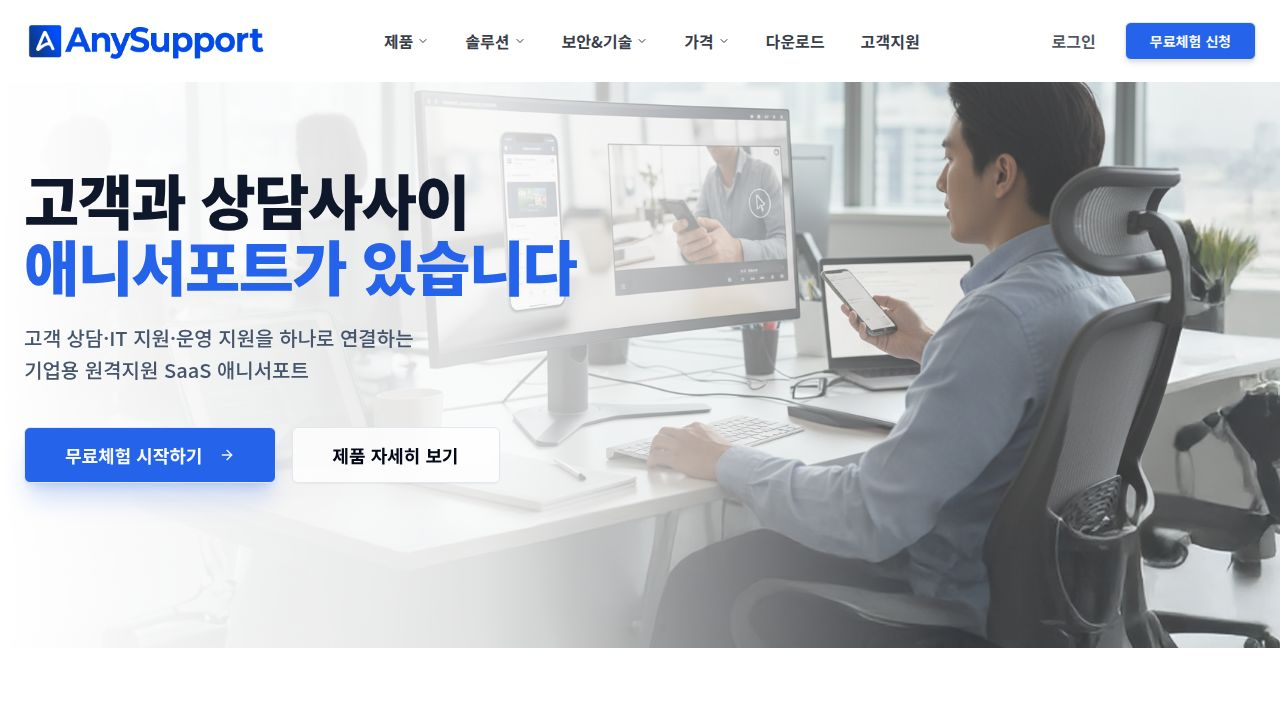
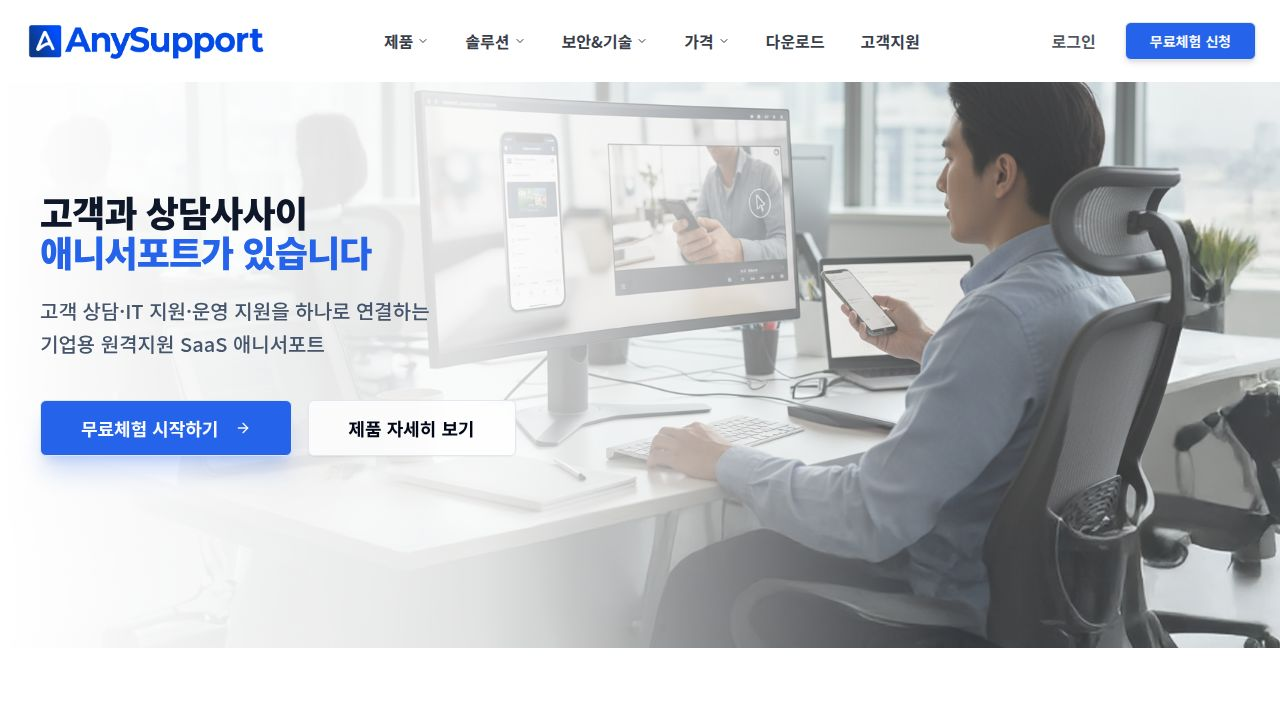
Update homepage layout and text scaling for improved visual presentation
Apply global container width, scale section and card titles, adjust description font sizes, and fix card image dimensions across the homepage component.

Replit-Commit-Author: Agent
Replit-Commit-Session-Id: 8ba586ec-b9aa-4377-bd8b-437d9b3afe8a
Replit-Commit-Checkpoint-Type: full_checkpoint
Replit-Commit-Event-Id: fedbec69-ab3a-449d-8ca8-83f56136e4be
Replit-Commit-Screenshot-Url: https://storage.googleapis.com/screenshot-production-us-central1/d1d43aaf-ab85-4a0b-a09b-85b7afb839c1/8ba586ec-b9aa-4377-bd8b-437d9b3afe8a/BrcoR73
Replit-Helium-Checkpoint-Created: true

Changed region(s): [[0.0, 0.2444, 0.4688, 0.7028]]

diff --git a/client/src/pages/home.tsx b/client/src/pages/home.tsx
@@ -264,9 +264,9 @@ export function Home() {
           <div className="absolute inset-0 bg-gradient-to-r from-white via-white/80 to-transparent lg:w-3/4" />
         </div>
 
-        <div className="container mx-auto px-4 md:px-6 relative z-10">
+        <div className="max-w-[1280px] w-full mx-auto px-4 sm:px-6 lg:px-10 relative z-10">
           <div className="max-w-3xl">
-            <h1 className="text-3xl sm:text-4xl md:text-6xl font-black text-slate-900 leading-[1.1] mb-6">
+            <h1 className="text-3xl lg:text-4xl md:text-6xl font-black text-slate-900 leading-[1.1] mb-6">
               고객과 상담사사이
               <br />
               <span className="text-primary">애니서포트가 있습니다</span>
@@ -298,12 +298,12 @@ export function Home() {
       </section>
       {/* 다양한 환경과 기기 지원 */}
       <section className="py-24 bg-white pt-[154px] pb-[154px]">
-        <div className="container mx-auto px-4 md:px-6">
+        <div className="max-w-[1280px] w-full mx-auto px-4 sm:px-6 lg:px-10">
           <div className="text-center mb-16">
-            <h2 className="text-[25px] md:text-4xl font-bold mb-4">
+            <h2 className="text-3xl lg:text-4xl font-bold mb-4">
               환경과 기기에 제한 없는 원격지원
             </h2>
-            <p className="text-slate-500 max-w-2xl mx-auto text-[14px] md:text-lg">
+            <p className="text-slate-500 max-w-2xl mx-auto sm:text-base">
               어떤 환경에서도 고객과 연결될 수 있습니다.
             </p>
           </div>
@@ -334,7 +334,7 @@ export function Home() {
                 data-testid={`link-solution-${item.title}`}
               >
                 <div className="overflow-hidden rounded-2xl border border-slate-100 bg-white shadow-sm flex flex-col group hover:shadow-md transition-shadow cursor-pointer h-full">
-                  <div className="aspect-[4/3] overflow-hidden relative">
+                  <div className="h-56 sm:h-64 overflow-hidden relative">
                     <img
                       src={item.image}
                       alt={item.title}
@@ -343,10 +343,10 @@ export function Home() {
                     <div className="absolute inset-0 bg-gradient-to-t from-slate-900/40 to-transparent opacity-60" />
                   </div>
                   <div className="p-6 sm:p-8 text-center border-t border-slate-50 flex-1">
-                    <h3 className="text-lg sm:text-xl font-bold mb-1 sm:mb-2 group-hover:text-primary transition-colors">
+                    <h3 className="text-lg lg:text-2xl font-bold mb-1 sm:mb-2 group-hover:text-primary transition-colors">
                       {item.title}
                     </h3>
-                    <p className="text-slate-500 text-xs sm:text-sm font-medium">
+                    <p className="text-slate-500 sm:text-base font-medium">
                       {item.desc}
                     </p>
                   </div>
@@ -368,12 +368,12 @@ export function Home() {
       </section>
       {/* 5. 애니서포트 핵심 기능 */}
       <section id="features" className="py-24 bg-[#f8fafc]">
-        <div className="container mx-auto px-4 md:px-6">
+        <div className="max-w-[1280px] w-full mx-auto px-4 sm:px-6 lg:px-10">
           <div className="text-center mb-16">
-            <h2 className="text-[25px] md:text-4xl font-bold mb-4">
+            <h2 className="text-3xl lg:text-4xl font-bold mb-4">
               효율적인 지원을 위한 핵심적인 기능
             </h2>
-            <p className="text-slate-500 max-w-2xl mx-auto text-[14px] md:text-lg"></p>
+            <p className="text-slate-500 max-w-2xl mx-auto sm:text-base"></p>
           </div>
           <div className="grid grid-cols-2 sm:grid-cols-3 md:grid-cols-4 lg:grid-cols-5 gap-6 mb-12 max-w-6xl mx-auto">
             {[
@@ -458,12 +458,12 @@ export function Home() {
       </section>
       {/* 5.1 Device Support Toggle Section */}
       <section className="py-24 bg-white border-y border-slate-50">
-        <div className="container mx-auto px-4 md:px-6">
+        <div className="max-w-[1280px] w-full mx-auto px-4 sm:px-6 lg:px-10">
           <div className="text-center mb-16">
-            <h2 className="md:text-5xl text-slate-900 mb-4 font-bold text-[36px]">
+            <h2 className="text-3xl lg:text-4xl text-slate-900 mb-4 font-bold">
               환경은 달라도, 지원은 하나로 완성됩니다
             </h2>
-            <p className="text-slate-500 max-w-2xl mx-auto text-lg font-medium">
+            <p className="text-slate-500 max-w-2xl mx-auto sm:text-base font-medium">
               PC·모바일·웹 환경을 아우르는 통합 원격 지원 기술
             </p>
           </div>
@@ -514,12 +514,12 @@ export function Home() {
       </section>
       {/* 6. 원격 연결 프로세스 (4단계) */}
       <section id="connection-process" className="py-24 bg-white">
-        <div className="container mx-auto px-4 md:px-6">
+        <div className="max-w-[1280px] w-full mx-auto px-4 sm:px-6 lg:px-10">
           <div className="text-center mb-16">
-            <h2 className="text-[25px] md:text-4xl font-bold mb-4">
+            <h2 className="text-3xl lg:text-4xl font-bold mb-4">
               간편한 4단계 연결로 시간과 비용을 단축하세요
             </h2>
-            <p className="text-slate-500 max-w-2xl mx-auto text-[14px] md:text-lg">
+            <p className="text-slate-500 max-w-2xl mx-auto sm:text-base">
               누구나 1분 안에 원격 지원을 시작할 수 있습니다.
             </p>
           </div>
@@ -576,12 +576,12 @@ export function Home() {
       </section>
       {/* 7. 기술력 & 보안 */}
       <section className="py-24 bg-slate-900 text-white pt-[70px] pb-[70px]">
-        <div className="container mx-auto px-4 md:px-6">
+        <div className="max-w-[1280px] w-full mx-auto px-4 sm:px-6 lg:px-10">
           <div className="max-w-4xl mx-auto text-center">
             <div className="inline-block p-3 rounded-full bg-primary/20 text-primary mb-6">
               <ShieldCheck size={40} />
             </div>
-            <h2 className="md:text-4xl font-bold mb-6 text-[25px]">
+            <h2 className="text-3xl lg:text-4xl font-bold mb-6">
               강력한 기술력과 타협 없는 보안
             </h2>
             <p className="text-slate-400 text-lg mb-10 leading-relaxed">
@@ -615,7 +615,7 @@ export function Home() {
       </section>
       {/* 8. 성과와 지표 (숫자로 증명) */}
       <section className="py-24 bg-[#0f172b] pt-[70px] pb-[70px]">
-        <div className="container mx-auto px-4 md:px-6">
+        <div className="max-w-[1280px] w-full mx-auto px-4 sm:px-6 lg:px-10">
           <div className="grid grid-cols-2 md:grid-cols-5 gap-4 md:gap-6 text-center">
             <div>
               <Counter value="6000" suffix="+" />
@@ -656,18 +656,18 @@ export function Home() {
       </section>
       {/* 10. 서비스 도입 방식 선택 */}
       <section className="py-24 bg-[#f8fafc]">
-        <div className="container mx-auto px-4 md:px-6">
+        <div className="max-w-[1280px] w-full mx-auto px-4 sm:px-6 lg:px-10">
           <div className="text-center mb-16">
-            <h2 className="text-[25px] md:text-4xl font-bold mb-4">
+            <h2 className="text-3xl lg:text-4xl font-bold mb-4">
               서비스 도입 방식 선택
             </h2>
-            <p className="text-slate-500 max-w-2xl mx-auto text-[14px] md:text-lg">
+            <p className="text-slate-500 max-w-2xl mx-auto sm:text-base">
               귀사의 규모와 환경에 맞는 플랜을 선택하세요.
             </p>
           </div>
           <div className="grid md:grid-cols-2 gap-8 max-w-5xl mx-auto">
             <div className="p-10 rounded-2xl border border-slate-200 hover:border-primary transition-all bg-white shadow-sm flex flex-col">
-              <h3 className="text-2xl font-bold mb-4">구독형 제품 (SaaS)</h3>
+              <h3 className="text-xl lg:text-2xl font-bold mb-4">구독형 제품 (SaaS)</h3>
               <p className="text-slate-500 mb-8 flex-1">
                 월/연 단위 결제로 즉시 사용 가능한 표준 서비스입니다.
                 <br />
@@ -680,7 +680,7 @@ export function Home() {
               </Link>
             </div>
             <div className="p-10 rounded-2xl border border-slate-200 hover:border-primary transition-all bg-white shadow-sm flex flex-col">
-              <h3 className="text-2xl font-bold mb-4">솔루션 / 연동형 제품</h3>
+              <h3 className="text-xl lg:text-2xl font-bold mb-4">솔루션 / 연동형 제품</h3>
               <p className="text-slate-500 mb-8 flex-1">
                 기존 상담 시스템(CRM/KMS)과 연계 가능한 맞춤형 솔루션입니다.
                 <br />
@@ -701,8 +701,8 @@ export function Home() {
       {/* 11. 무료체험 CTA (마무리 섹션) */}
       <section className="py-24 bg-primary text-white overflow-hidden relative">
         <div className="absolute top-0 right-0 w-1/3 h-full bg-white/5 skew-x-12 transform translate-x-1/2" />
-        <div className="container mx-auto px-4 md:px-6 text-center relative z-10">
-          <h2 className="text-2xl sm:text-3xl md:text-5xl font-bold mb-8">
+        <div className="max-w-[1280px] w-full mx-auto px-4 sm:px-6 lg:px-10 text-center relative z-10">
+          <h2 className="text-3xl lg:text-4xl font-bold mb-8">
             지금 14일간 무료로 사용해보세요
           </h2>
           <p className="text-base sm:text-lg md:text-xl opacity-90 mb-12 max-w-2xl mx-auto font-medium">
